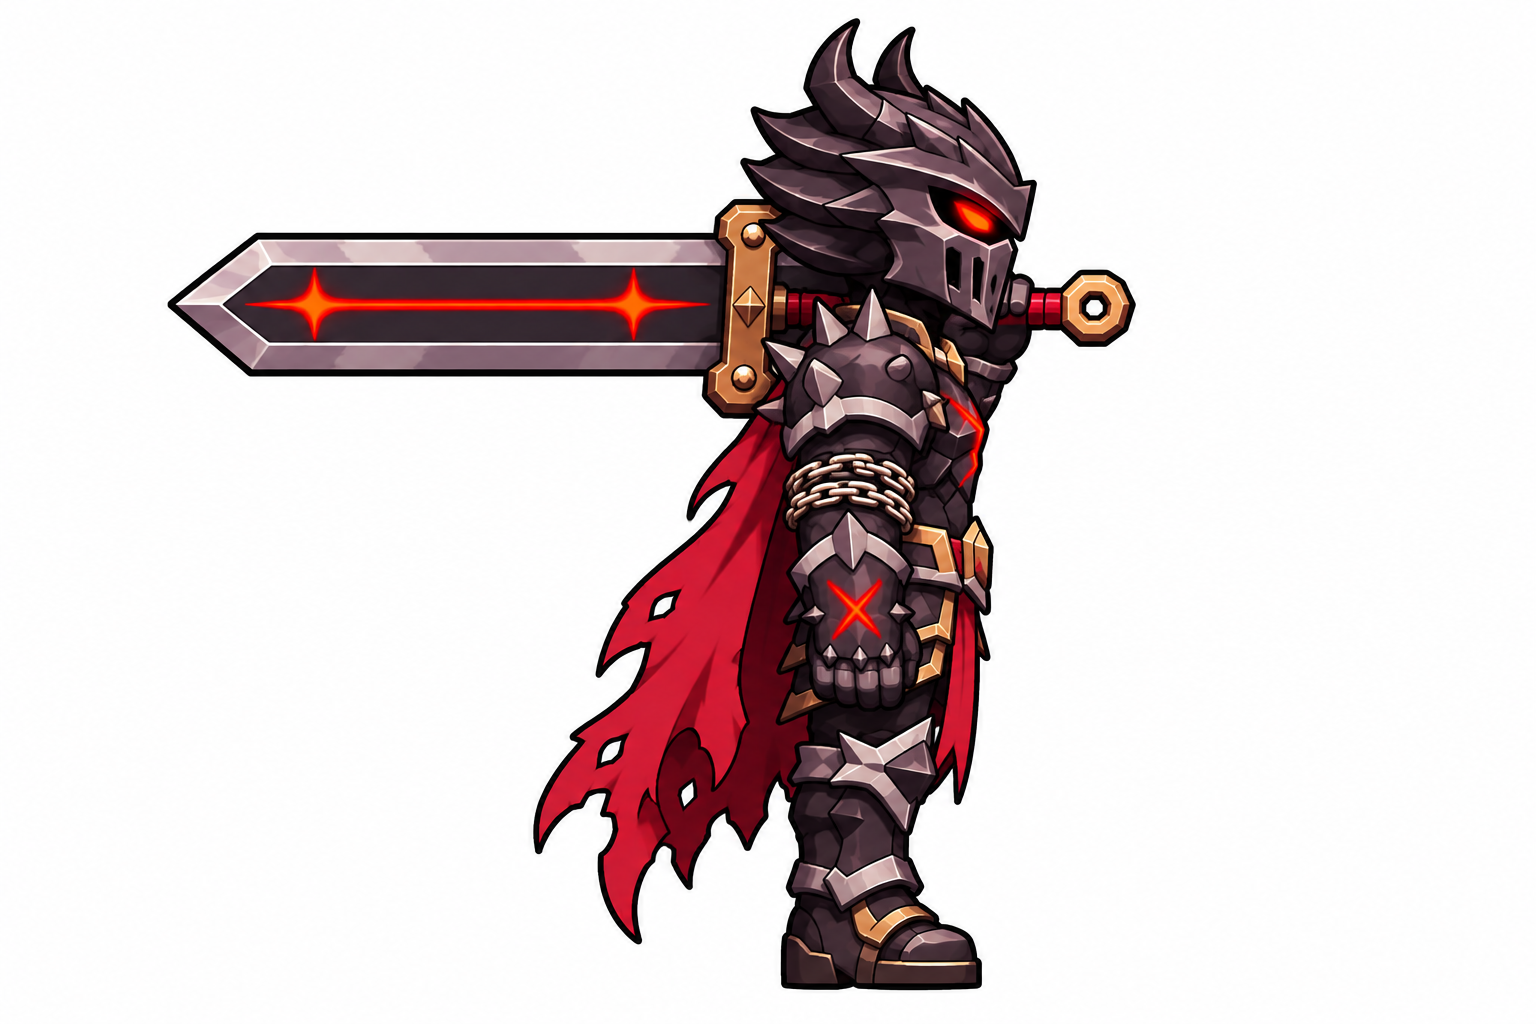
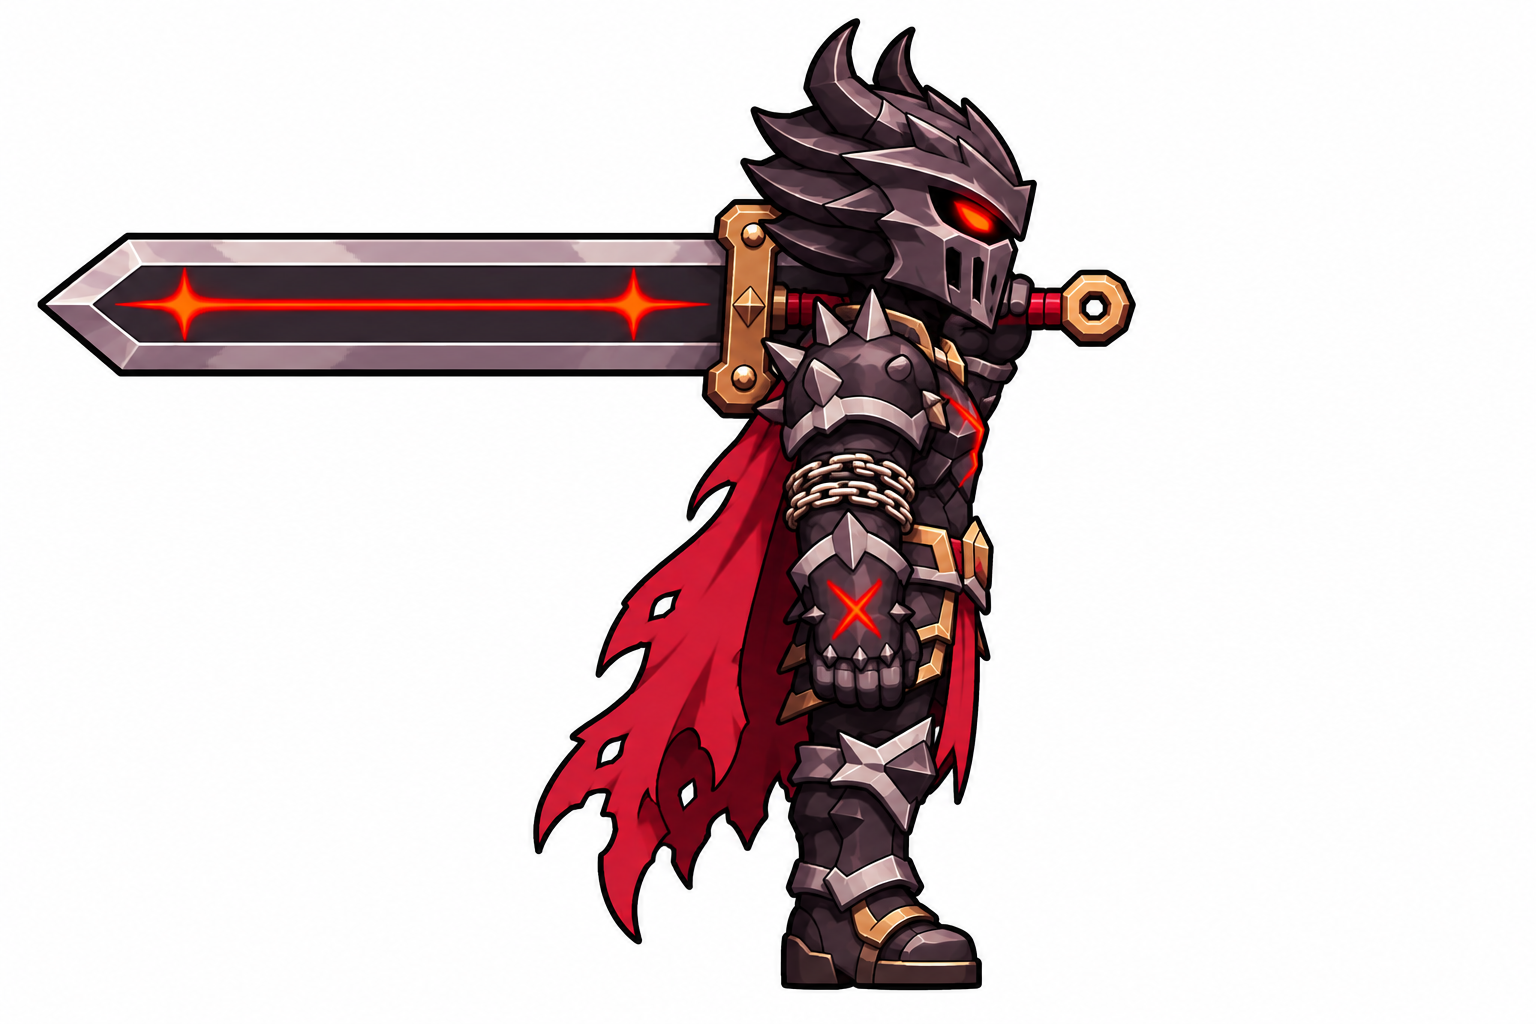
Berserker side view: blade lengthened to match the front view
Claude-Session: https://claude.ai/code/session_01TXxUxQNkVyKsqGN7cZdxAu

Changed region(s): [[0.0312, 0.2188, 0.2812, 0.375]]

diff --git a/docs/action-game.md b/docs/action-game.md
@@ -380,7 +380,7 @@ phone) + attack + roll; about 8 skills per class to unlock up to level 50, the p
   before PixelLab.
   Guardian side redo in: `art/incoming/action/guardian/side_right.png` (true right profile; the sword is in the near = LEFT hand and
   the shield on the far arm, the front view has them the other way round; fine for one diagonal + mirror). Berserker side redo in: `art/incoming/action/berserker/side_right.png` (true right profile, blade over the shoulder pointing back, glowing eye). Both ready for PixelLab (waiting for the owner's go).
-  Berserker v2 (owner: the sword was too small, then GPT kept drawing it bent; fixed by a new chat, the sword drawn alone first, then one view at a time with it attached): `front_v2.png` (straight sword as long as he is tall, one red rune line). `side_v2.png` (true right profile; the sword about 10-15% shorter against his height than in the front view, accepted). `back_v2.png` (from behind, the sword level across the shoulders in the right hand). Berserker v2 complete: front_v2 / side_v2 / back_v2 are the ones to use for PixelLab (the first turnaround is superseded).
+  Berserker v2 (owner: the sword was too small, then GPT kept drawing it bent; fixed by a new chat, the sword drawn alone first, then one view at a time with it attached): `front_v2.png` (straight sword as long as he is tall, one red rune line). `side_v2.png` (true right profile; owner "ดาบสั้น": the blade stretched by 130 px in code (a plain stretch between the rune stars repeated, the tip moved out) so it matches the front view; GPT original kept as `side_v2_gpt.png`). `back_v2.png` (from behind, the sword level across the shoulders in the right hand). Berserker v2 complete: front_v2 / side_v2 / back_v2 are the ones to use for PixelLab (the first turnaround is superseded).
 - **Thai town hub** (owner 2026-11-09 "ฉากเมือง ทำแค่เมือง ไม่ต้องมีมอน เอาไว้รับเควส ละก็วาร์ป ... ใช้กำแพงเป็นแมพเลย ไม่ต้องกว้างมาก"): `?map=town`
   (`TOWN`, TH ground + `thaiProps`, so the walled city of the Thai map is reused): she can only move inside the walls
   (`cityD` > .86 pushes her back except on the road at the gates), the camera stays on the city, no camps / waves
